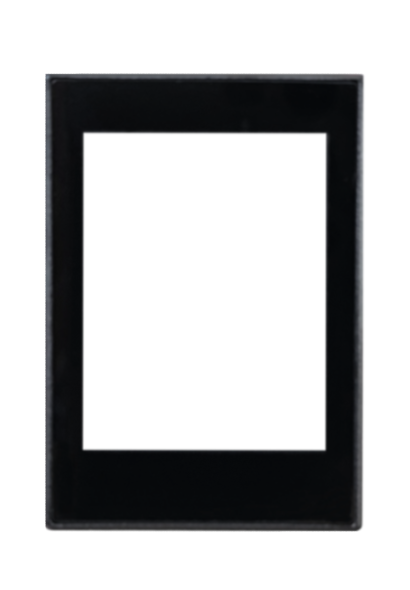
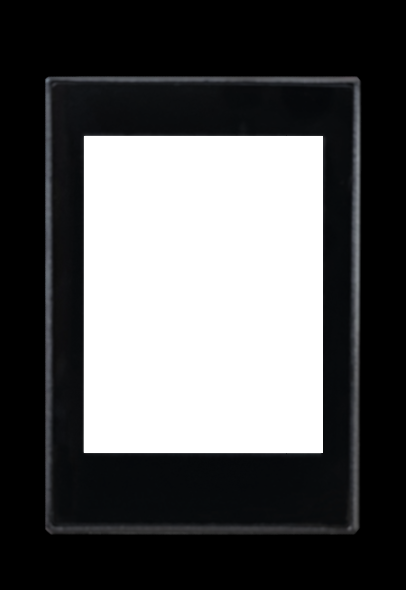
fix wonder_mv imgs

diff --git a/simulator/kruxsim/devices.py b/simulator/kruxsim/devices.py
@@ -139,10 +139,10 @@ def screenshot_rect(device):
         )
     elif device == WONDER_MV:
         # Todo: Adjust the rect for the Wonder MV device
-        rect.width -= 134
-        rect.height -= 155
+        rect.width -= 88
+        rect.height -= 129
         rect.center = (
-            screen.get_rect().center[0],
-            screen.get_rect().center[1] + 29,
+            screen.get_rect().center[0] - 0,
+            screen.get_rect().center[1] + 10,
         )
     return rect
